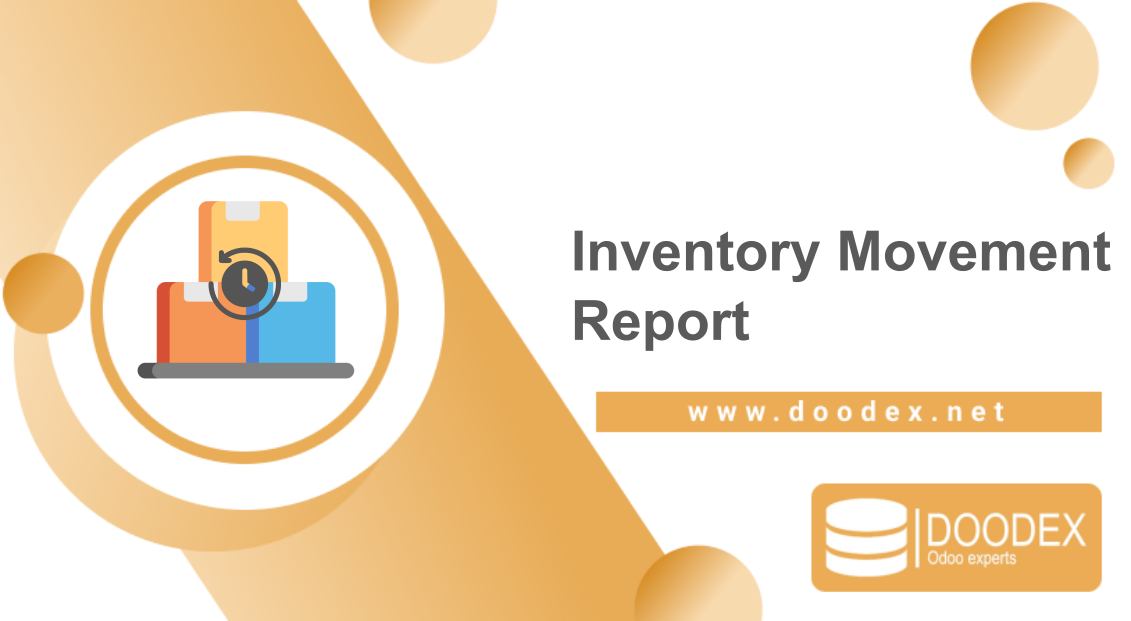
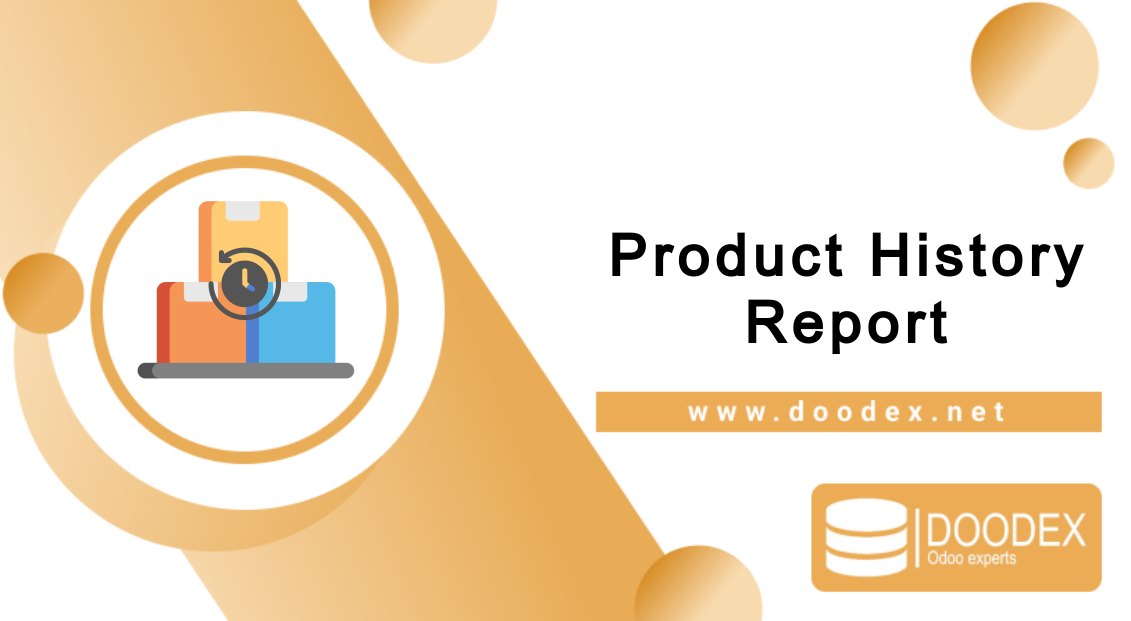
change module name#2

Changed region(s): [[0.4951, 0.3671, 0.9903, 0.5813]]

diff --git a/product_history_report/static/description/index.html b/product_history_report/static/description/index.html
@@ -13,7 +13,7 @@
     <div class="logos" style="margin-bottom: 20px;">
         <img src="./assets/doodex_odoo.png" alt="Company Logo" style="max-height: 100px;">
     </div>
-    <h1 style="font-size: 3rem; color: #ffffff; font-weight: 700;">Inventory Movement Report</h1>
+    <h1 style="font-size: 3rem; color: #ffffff; font-weight: 700;">Product History Report</h1>
     <p style="font-size: 1.25rem; font-weight: 400;">This custom Odoo module provides an insightful report on inventory movement over the last year. It offers a comprehensive view of stock changes, enabling better inventory management and decision-making.</p>
     <a href="#features" class="btn btn-light btn-lg mt-4" style="background-color: #fff; color: #685563; border: none; padding: 10px 20px; text-decoration: none;">Learn More</a>
 </header>
@@ -74,13 +74,13 @@
         <ol>
             <li>Download the module from this repository.</li>
             <li>Install the module in your Odoo instance.</li>
-            <li>Navigate to the Inventory Products to view the Inventory Movement Report.</li>
+            <li>Navigate to the Inventory Products to view the Product History Report.</li>
         </ol>
     </section>
 
     <section id="usage" class="my-5">
         <h2 style="font-weight: 700;">Usage</h2>
-        <p>Once installed, the new smart button will be available in the Inventory Products. Click the smart button to view the Inventory Movement Report.</p>
+        <p>Once installed, the new smart button will be available in the Inventory Products. Click the smart button to view the Product History Report.</p>
     </section>
 
     <section id="compatibility" class="my-5">

diff --git a/README.md b/README.md
@@ -36,7 +36,7 @@ Visit our website at www.doodex.net to learn more about our services and how we 
 [get a free audit here](https://www.doodex.net/audit-gratuit)
 
 
-## [Inventory Movement Report](https://www.doodex.net/en/blog/doodex-blog-2/manage-inventory-with-odoo-73)
+## [Product History Report](https://www.doodex.net/en/blog/doodex-blog-2/manage-inventory-with-odoo-73)
 This custom Odoo module provides an insightful report on inventory movement over the last year. It offers a comprehensive view of stock changes, enabling better inventory management and decision-making.
 
 ### Features
@@ -62,10 +62,10 @@ Better Decision-Making: Access detailed inventory movement data to make informed
 ## Installation
 Download the module from this repository.
 Install the module in your Odoo instance.
-Navigate to the Inventory Products to view the Inventory Movement Report.
+Navigate to the Inventory Products to view the Product History Report.
 
 ## Usage
-Once installed, the new smart button will be available in the Inventory Products. Click the smart button to view the Inventory Movement Report.
+Once installed, the new smart button will be available in the Inventory Products. Click the smart button to view the Product History Report.
 
 ## Compatibility
 Odoo version: 17.0

diff --git a/product_history_report/README.md b/product_history_report/README.md
@@ -36,7 +36,7 @@ Visit our website at www.doodex.net to learn more about our services and how we 
 [get a free audit here](https://www.doodex.net/audit-gratuit)
 
 
-## [Inventory Movement Report](https://www.doodex.net/en/blog/doodex-blog-2/manage-inventory-with-odoo-73)
+## [Product History Report](https://www.doodex.net/en/blog/doodex-blog-2/manage-inventory-with-odoo-73)
 This custom Odoo module provides an insightful report on inventory movement over the last year. It offers a comprehensive view of stock changes, enabling better inventory management and decision-making.
 
 ### Features
@@ -62,10 +62,10 @@ Better Decision-Making: Access detailed inventory movement data to make informed
 ## Installation
 Download the module from this repository.
 Install the module in your Odoo instance.
-Navigate to the Inventory Products to view the Inventory Movement Report.
+Navigate to the Inventory Products to view the Product History Report.
 
 ## Usage
-Once installed, the new smart button will be available in the Inventory Products. Click the smart button to view the Inventory Movement Report.
+Once installed, the new smart button will be available in the Inventory Products. Click the smart button to view the Product History Report.
 
 ## Compatibility
 Odoo version: 17.0
